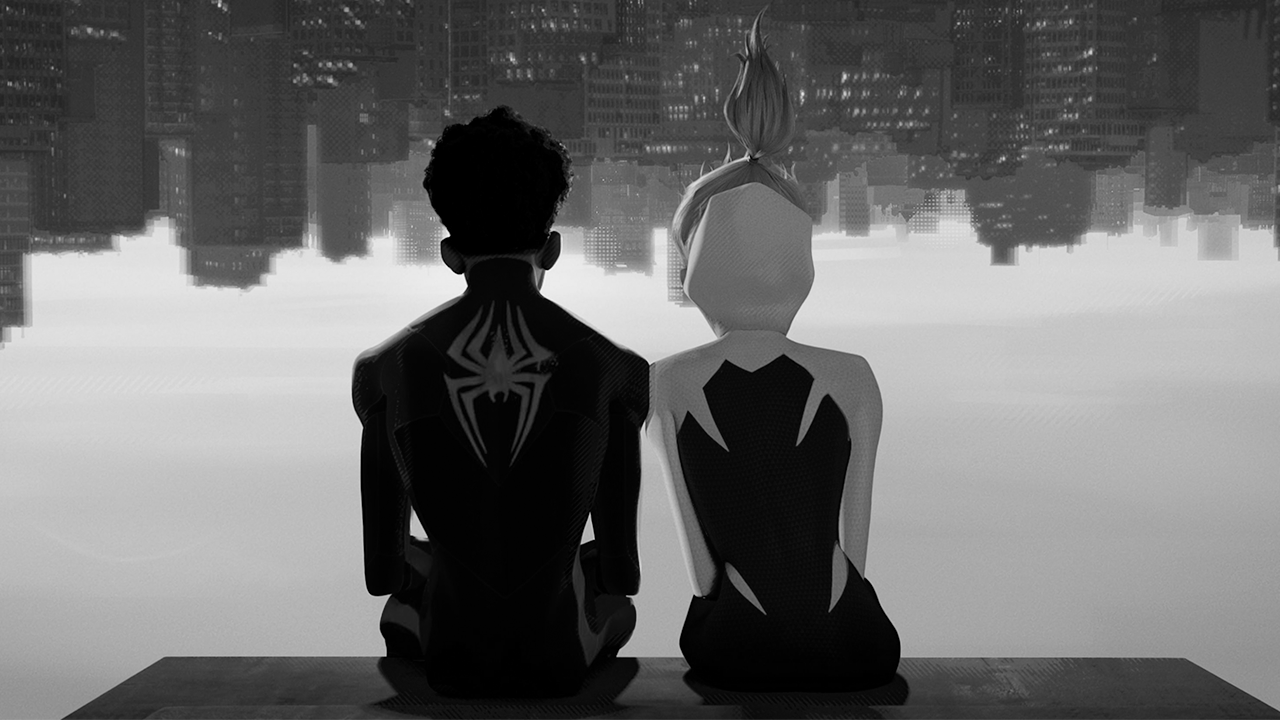
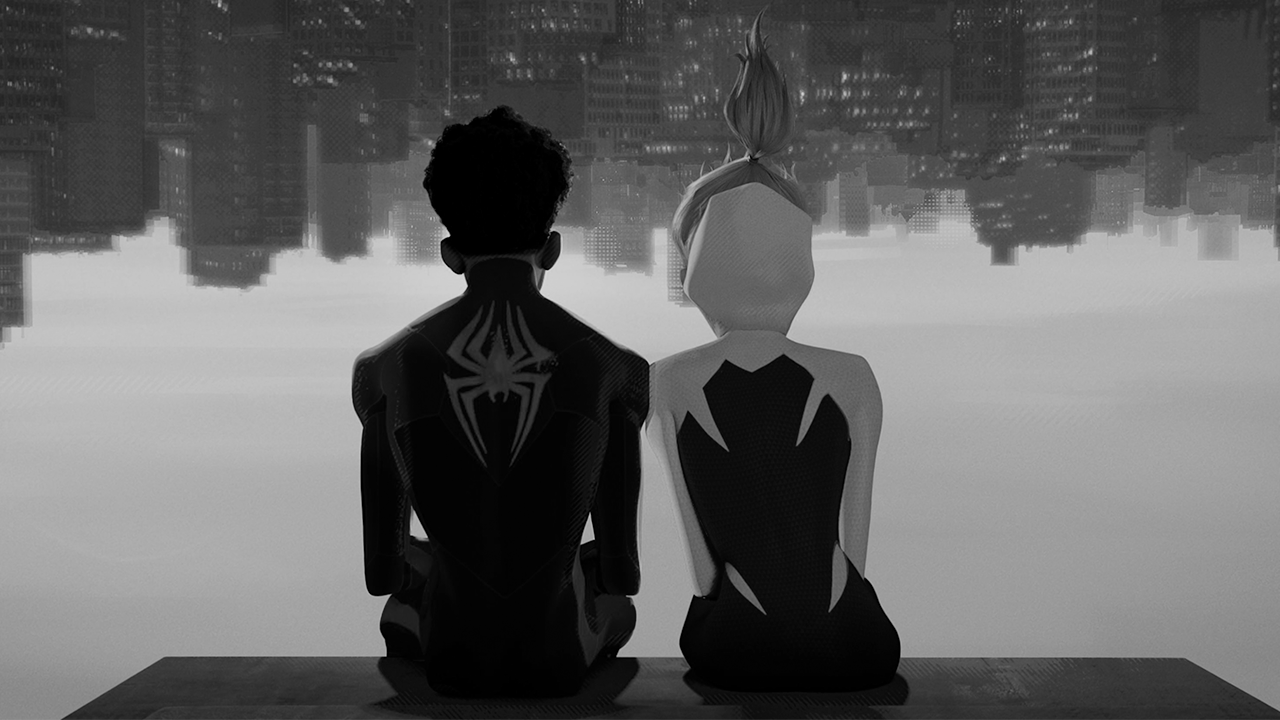
arreglos en el programa 1

diff --git a/1/funcion_secuencial.cpp b/1/funcion_secuencial.cpp
@@ -6,16 +6,22 @@ using namespace cv;
 using namespace std;
 using namespace chrono;
 
-int main() {
+int main(int argc, char** argv) {
+    // Verificar si se proporcionan suficientes argumentos
+    if (argc != 4) {
+        cerr << "Uso: " << argv[0] << " <nombre_imagen_a_color> <nombre_imagen_escala_de_grises> <escala_de_grises>" << endl;
+        return -1;
+    }
+
     // Capturar el tiempo de inicio
     auto start_time = high_resolution_clock::now();
 
     // Leer la imagen a color
-    Mat image = imread("spider.png", IMREAD_COLOR);
+    Mat image = imread(argv[1], IMREAD_COLOR);
 
     // Verificar si la imagen se cargó correctamente
     if (image.empty()) {
-        cerr << "Un error ha ocurrido. Intentar con otra imagen." << endl;
+        cerr << "Error al cargar la imagen a color. Intentar con otra imagen." << endl;
         return -1;
     }
 
@@ -26,42 +32,28 @@ int main() {
     // Crear la imagen en escala de grises
     Mat grayImage(rows, cols, CV_8UC1);
 
-    // Convertir a escala de grises utilizando el método de luminosidad
+    // Obtener el factor de escala de grises del tercer argumento
+    double grayscaleFactor = stod(argv[3]);
+
+    // Convertir a escala de grises utilizando el método de luminosidad y el factor proporcionado
     for (int i = 0; i < rows; ++i) {
         for (int j = 0; j < cols; ++j) {
             Vec3b pixel = image.at<Vec3b>(i, j);
-            uchar grayValue = 0.299 * pixel[2] + 0.587 * pixel[1] + 0.114 * pixel[0];
+            uchar grayValue = grayscaleFactor * pixel[2] + grayscaleFactor * pixel[1] + grayscaleFactor * pixel[0];
             grayImage.at<uchar>(i, j) = grayValue;
         }
     }
 
     // Guardar la imagen en escala de grises
-    imwrite("NuevaImagen.png", grayImage);
+    imwrite(argv[2], grayImage);
 
     // Capturar el tiempo de finalización
     auto end_time = high_resolution_clock::now();
 
     // Calcular la duración en segundos
-    auto duration = duration_cast<microseconds>(end_time - start_time);
+    auto duration = duration_cast<seconds>(end_time - start_time);
 
-    cout << "Se ha creado una NuevaImagen con escala de colores gris. El tiempo de ejecución ha sido: " << duration.count() << " microsegundos" << endl;
+    cout << "Se ha creado una nueva imagen en escala de grises con factor " << grayscaleFactor << ". El tiempo de ejecución ha sido: " << duration.count() << " segundos" << endl;
 
     return 0;
 }
-
-
-/*
-    g++ -std=c++17 -Wall -Wextra -I /usr/include/opencv4 "home/joaquin/Escritorio/Tarea2-SO/1/1/funcion_secuencial.cpp" -o "/home/joaquin/Escritorio/Tarea2-SO//1/funcion_secuencial.exe" -lopencv_core -lopencv_imgproc -lopencv_highgui -lopencv_imgcodecs
-
-
- ** g++ -std=c++17 -Wall -Wextra -I /usr/include/opencv4 "/home/joaquin/Escritorio/Tarea2-SO/1/funcion_secuencial.cpp" -o "/home/joaquin/Escritorio/Tarea2-SO/1/funcion_secuencial.exe" -lopencv_core -lopencv_imgproc -lopencv_highgui -lopencv_imgcodecs
-
-
-g++ -std=c++17 -Wall -Wextra -I /usr/include/opencv4 "/home/joaquin/Escritorio/Tarea2-SO/1/funcion_secuencial.cpp" -o "/home/joaquin/Escritorio/Tarea2-SO/1/funcion_secuencial.exe" -lopencv_core -lopencv_imgproc -lopencv_highgui -lopencv_imgcodecs
-
-
-original:
-
-g++ -std=c++17 -Wall -Wextra -I /usr/include/opencv4 "/home/joaquin/Escritorio/Tarea2-SO/1/funcion_secuencial.cpp" -o "/home/joaquin/Escritorio/Tarea2-SO/1/funcion_secuencial.exe" -lopencv_core -lopencv_imgproc -lopencv_highgui -lopencv_imgcodecs
-
-*/

diff --git a/1/readme.md b/1/readme.md
@@ -26,8 +26,20 @@ Primero que nada los requisitos:
 	Compilar el programa
 1. make
 
+
 	Ejecutar el programa 
-2. make run
+2. se debe escribir la siguiente linea:
+    ./funcion_secuencial nombre_de_la_imagen.png nombre_de_la_nueva_imagen.png 0.5
+
+explicación de las lineas:
+
+# ./funcion_secuencial -> Es para ejecutar el programa.
+
+# nombre_de_la_imagen -> Se debe escribir el nombre de la imagen a transformar. ¡Debe de estar en la misma carpeta o se debe especificar bien la ruta!
+
+# nombre_de_la_nueva_imagen.png -> Nombre que se le debe dar a la imagen a transformar.
+
+# Para la escala de grises se debe escoger un minimo que es 0.0 y un maximo de 1.0
 
 	Borrar compilacion y ejecucion
 3. make clean
